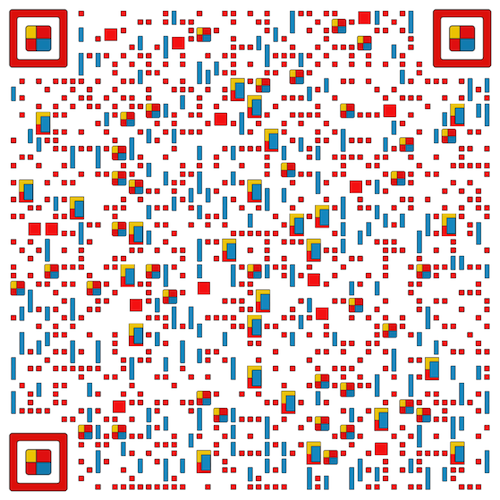
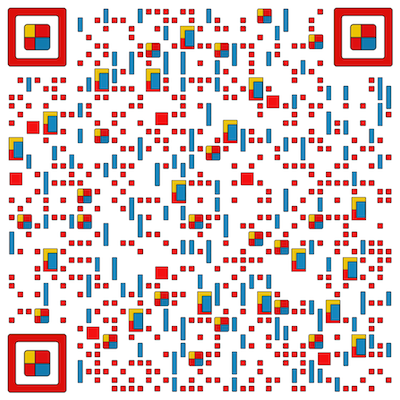
modify the README

diff --git a/README.md b/README.md
@@ -36,6 +36,9 @@
 * [WebView性能、体验分析与优化](https://mp.weixin.qq.com/s?__biz=MjM5NjQ5MTI5OA==&mid=2651746383&idx=2&sn=9b8f8ec2adf7c13934bfb9891eae4d81&chksm=bd12a9028a652014ab8b89ff996cf7b53e8d40bfbcd64725c7c82df72515669fcf5267272ccf&scene=38#wechat_redirect)(这一块此项目后续需要改进)
 * [Android MVP架构从入门到精通-真枪实弹](https://www.wanandroid.com/blog/show/2440)
 * [你真的会用Retrofit2吗?Retrofit2完全教程](https://www.jianshu.com/p/308f3c54abdd)  
+#### 版本更新说明  
+v1.2.0 修改Android6.0动态权限申请  
+v1.1.0 初始版本
 #### 项目一览  
 ![启动页](https://raw.githubusercontent.com/chejdj/WanAndroid/master/image/start.png?token=AQ4MyR7l6VVBBAtmu58KP5JDaqCvBeeuks5cmY9GwA%3D%3D)![首页](https://raw.githubusercontent.com/chejdj/WanAndroid/master/image/home.png?token=AQ4MyRfQ4zg_fKBxyoT20J_lbKqK5yA1ks5cmY9fwA%3D%3D)![知识体系](https://raw.githubusercontent.com/chejdj/WanAndroid/master/image/knowledgeArch.png?token=AQ4MyeEP5r7eQBbuzhnjY47bZ4TtVG7cks5cmY97wA%3D%3D)  
 
@@ -45,8 +48,8 @@
 
 ![搜索](https://raw.githubusercontent.com/chejdj/WanAndroid/master/image/search.png?token=AQ4MySH6FlcA90BGrtyjntteyjqyn54hks5cmZBtwA%3D%3D)![文章](https://raw.githubusercontent.com/chejdj/WanAndroid/master/image/article.png?token=AQ4MyZ4y36FW7ccDsmyNSgHvBz7Ye3QRks5cmZCFwA%3D%3D)  
 #### 项目资源  
-1. [APP下载地址](https://github.com/chejdj/WanAndroid/releases/download/1.1.0/WanAndroid.apk)，二维码  
-![二维码](https://raw.githubusercontent.com/chejdj/WanAndroid/master/image/apk_download.png?token=AQ4MyetxedPcdCiFzSMyeatEu1ELmr3Xks5cmegGwA%3D%3D)  
+1. [APP下载地址](https://github.com/chejdj/WanAndroid/releases/download/1.2.0/app-release.apk)，二维码  
+![二维码](https://raw.githubusercontent.com/chejdj/WanAndroid/master/image/apk_download.png)  
 2. 项目地址: https://github.com/chejdj/WanAndroid
 
 
